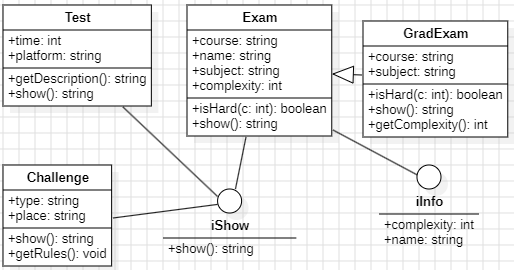
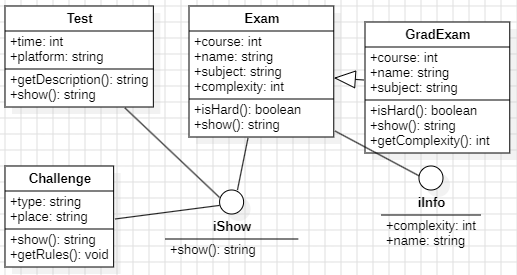
Lab6

diff --git a/Lab1/src/app/interfacepage/class/challenge.spec.ts b/Lab1/src/app/interfacepage/class/challenge.spec.ts
@@ -1,0 +1,57 @@
+import { Challenge } from "./challenge";
+import { Test } from "./test";
+import { Exam } from "./exam";
+import { GradExam } from "./gradExam";
+
+describe('ЛАБОРАТОРНА 6 Тестування ', () => {
+  let challenge: Challenge;
+  let test: Test;
+  let exam: Exam;
+  let gradExam: GradExam;
+
+  beforeEach(() => {
+    challenge = new Challenge("аудіо", "метро Виставковий центр");
+    test = new Test(25, "Мудл");
+    exam = new Exam(1, "модульна контрольна робота", "Probability");
+    gradExam = new GradExam(2, "страшний екзамен", "Maths");
+  }
+  )
+
+  it("CHALLENGE -- should create class object", () => {
+    expect(challenge).toBeTruthy();
+  })
+  it("TEST -- should create class object", () => {
+    expect(test).toBeTruthy();
+  })
+  it("EXAM -- should create class object", () => {
+    expect(exam).toBeTruthy();
+  })
+  it("GRADEXAM -- should create class object", () => {
+    expect(gradExam).toBeTruthy();
+  })
+
+
+  it("EXAM -- testing isHard() with complexity 88", () =>{
+    exam.complexity = 88;
+    let res = exam.isHard();
+    expect(res).toBe(true);
+  })
+  it("EXAM -- testing isHard() with complexity 42", () =>{
+    exam.complexity = 42;
+    let res = exam.isHard();
+    expect(res).toBe(false);
+  })
+
+  it("GRADEXAM -- testing getComplexity for 1-course Maths", () =>{
+    gradExam.course = 1;
+    gradExam.subject = "Maths";
+    gradExam.getComplexity();
+    expect(gradExam.complexity).toBe(85);
+  })
+  it("GRADEXAM -- testing getComplexity for 3-course OOP", () =>{
+    gradExam.course = 3;
+    gradExam.subject = "OOP";
+    gradExam.getComplexity();
+    expect(gradExam.complexity).toBe(42);
+  })
+});

diff --git a/Lab1/src/app/interfacepage/class/exam.ts b/Lab1/src/app/interfacepage/class/exam.ts
@@ -13,8 +13,8 @@ export class Exam implements iInfo, iShow {
     this.subject = subject;
   }
 
-  isHard(complexity: number) {
-    if (complexity >= 65) return true;
+  isHard() {
+    if (this.complexity >= 65) return true;
     else return false;
   }
 
